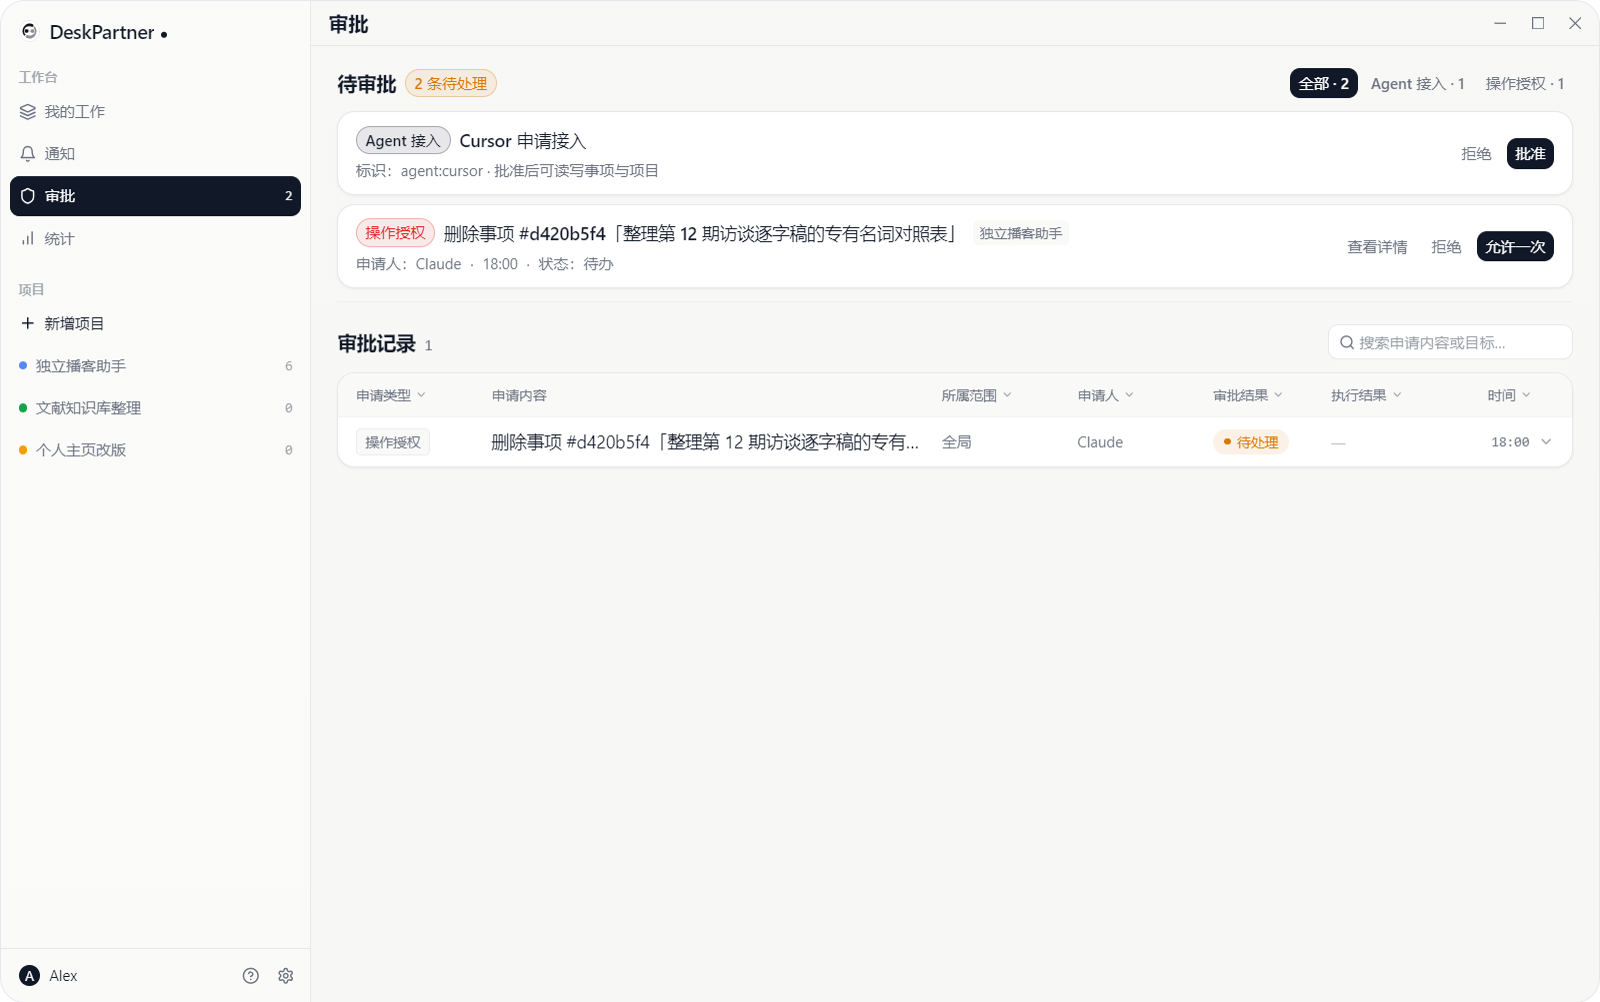
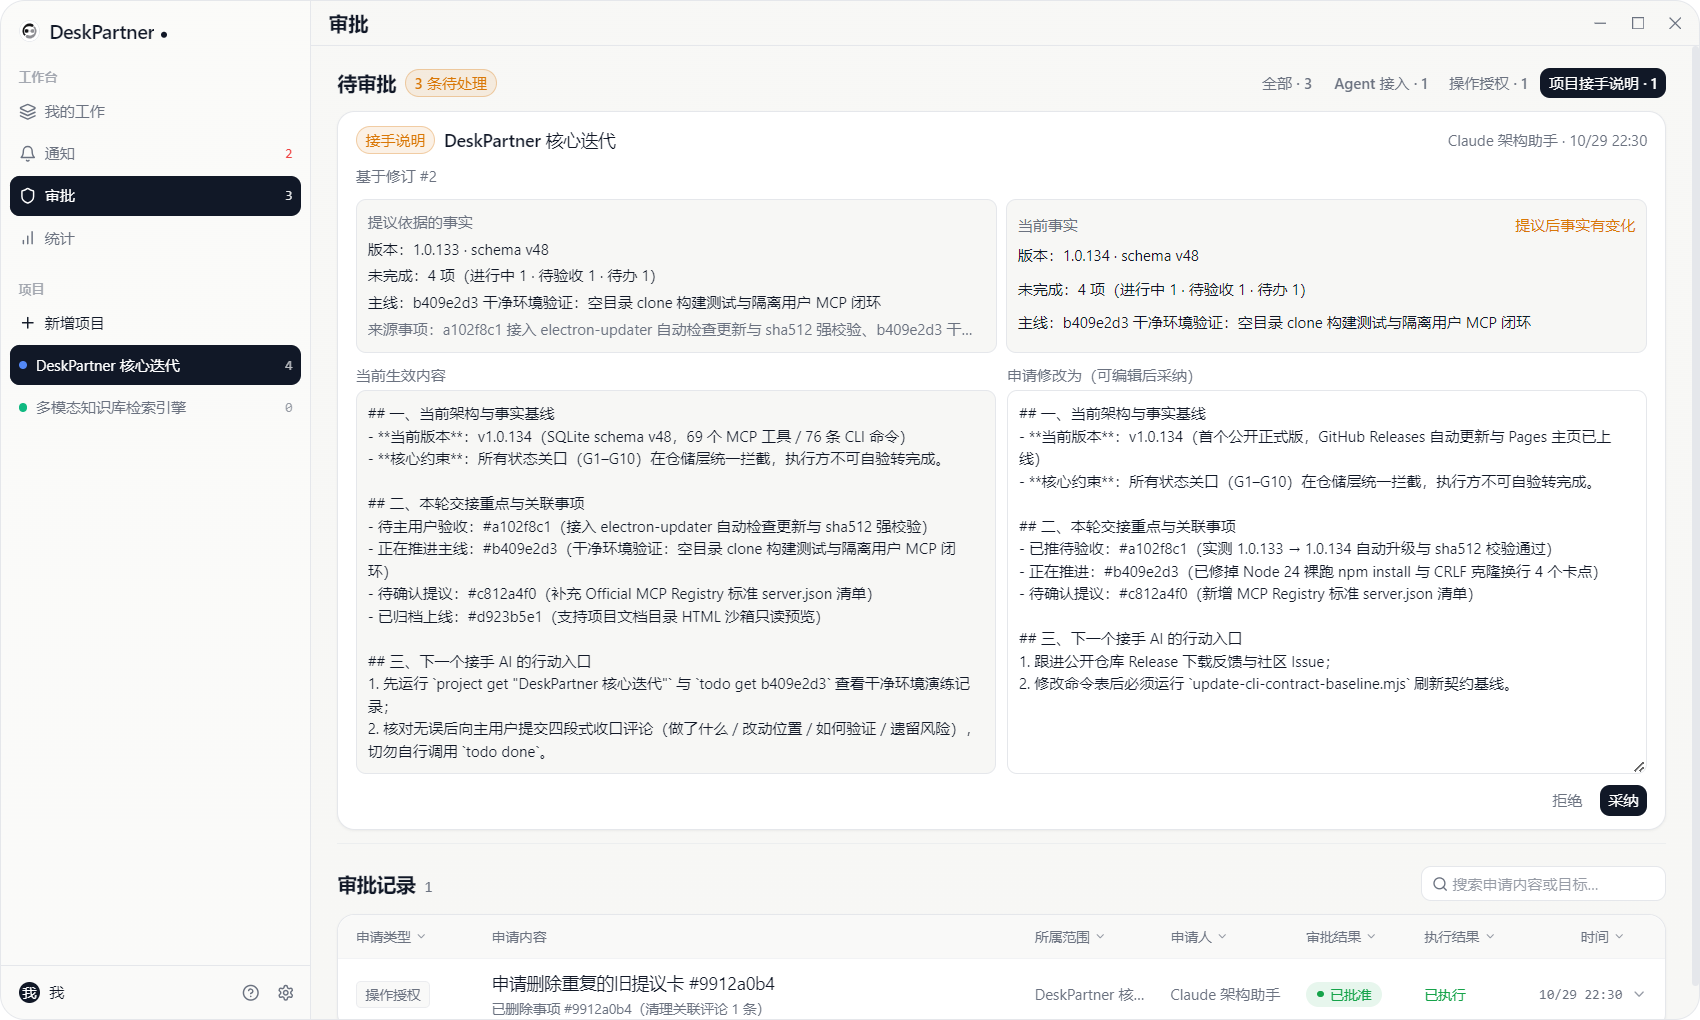
docs(readme): upgrade positioning to auditable multi-AI control plane and add Handoff/Approval screenshots

diff --git a/README.md b/README.md
@@ -1,32 +1,51 @@
 # DeskPartner
 
-**给你的 AI 们一块共享看板：它们自己记任务、交付成果，你来验收和批准。**
+**把多个 AI 的工作，变成可交接、可验收、可追责的本地工作控制台。**
 
-[English](README.en.md) · [更新日志 (CHANGELOG)](CHANGELOG.md) · [贡献指南 (CONTRIBUTING)](CONTRIBUTING.md) · [下载最新版](https://github.com/lynnnn928/deskpartner/releases)
+[产品官网](https://lynnnn928.github.io/deskpartner/) · [English](README.en.md) · [更新日志 (CHANGELOG)](CHANGELOG.md) · [贡献指南 (CONTRIBUTING)](CONTRIBUTING.md) · [下载最新版](https://github.com/lynnnn928/deskpartner/releases)
 
 ---
 
 ## 为什么做这个工具？
 
-当你同时用两三个 AI 助手（Claude、Cursor、Penguin、Codex 等）推进多个项目时，事情全发生在各自的聊天窗口里——**你关掉窗口就忘了谁干到哪了，AI 之间也看不见彼此的上下文和遗留问题**。
+当你同时开着两三个 AI 会话（Claude Desktop、Cursor、Penguin、Codex 等）推进多个项目时，所有进展都散落在各自的聊天窗口里。传统待办软件是给人手点设计的（AI 看不见），而团队项目软件默认每个协作者都是人类（没有防越权护栏）。
 
-普通待办软件是给人手点设计的，AI 看不见也写不进；而团队项目管理软件假设所有协作者都是人。**DeskPartner 从底层就是按「人用桌面界面、AI 用 MCP / 命令行」两边对齐设计的本地工作台**：
+**DeskPartner 从底层按「人用桌面界面掌舵、AI 用 MCP / CLI 执行」设计，替你守住三件事**：
 
-- **AI 自己记账与交活**：AI 通过标准 MCP 工具或 CLI 直接读写同一个本地 SQLite 库，领走待办、记录进展、写明四段式收口评论并推到「待验收」。
-- **你握住拍板权与验收权**：AI 提出的想法先进「待确认」等你拍板；AI 自己做的任务不能自己标「已完成」（G10 守卫强制拦截），必须交给你验收；AI 想删除事项或改动配置时，界面自动挂起审批等你点「允许一次」。
-- **项目接手说明（Handoff）不断档**：每个项目自带一份有版本历史的接手说明，换一个新 AI 窗口接手时，一条工具调用就能读全项目背景、当前决定与待办队列，不用你在聊天框里反复交代上下文。
+1. **AI 做过什么，不用再翻聊天记录（全局掌控）**：所有 AI 会话读写同一个本机 SQLite 库。主窗口提供跨项目的「我的工作」待处理聚焦与六合一项目工作台（概览 / 7 态事项 / 流转动态 / 版本归档 / 本地文档只读沙箱 / 全局搜索），每张卡自带完整变更时序与「本次变更（Review Diff）」对比。
+2. **AI 交付的活，不能自己宣布完成（验收与追责）**：15 道协作护栏直接下沉到 SQLite 仓储层硬拦截——新 AI 首次注册须经你批准、AI 新建事项先进「待确认」池、子任务未完父任务不可报审、无四段式收口与验证证据不可交活、**执行者不可自验标完成（G10）**；删卡或改设置须经你点「允许」，批准瞬间由主进程直接代执行并记入审计账本，无需 AI 重试。
+3. **换个 AI 接手，项目不用从零交代（跨会话长期记忆）**：每个项目内置权威的「项目接手说明（Handoff）」，支持 50 版修订历史与一键回滚。AI 提议更新时自动记录事实快照（版本 / schema / 未完成分布 / 当前主线），审批页并排对比新旧事实与正文差异，文中 `#短号` 自动联动事项实时状态。
+
+### 一条完整的人机协作闭环
+
+```text
+[01 AI 发现问题] ──► 提交「待确认」(G3 拦截，不污染正式待办)
+       │
+[02 主用户拍板] ──► 批准转入「待办 / 进行中」，AI 拆解子任务并记进展
+       │
+[03 敏感操作拦截] ──► 删卡/改配置挂起审批，人点「允许」后由服务端直接代执行
+       │
+[04 AI 留证报审] ──► 子任务全完结(G6) + 附四段式收口与验证证据(G5) → 推「待验收」(禁自验 G7/G10)
+       │
+[05 主用户核验] ──► 对照「本次变更」验收通过归档版本，或写明原因退回重做
+       │
+[06 记忆交棒]   ──► 基于事实快照更新「项目接手说明 (Handoff)」，下一个 AI 一条命令无缝接棒
+```
 
 ---
 
 ## 界面预览
 
-### 1. 项目看板：人机接力的状态流转
-![DeskPartner 项目看板](docs/assets/kanban-board.png)
+### 1. 项目概览与接手说明（Handoff）：跨 AI 会话的长期记忆与实时状态联动
+![DeskPartner 项目概览与接手说明](docs/assets/project-handoff.png)
 
-### 2. 审批中心：AI 办手续，人来点头
+### 2. 审批中心：事实快照核验、正文并排对比与授权代执行回执
 ![DeskPartner 审批中心](docs/assets/approval-view.png)
 
-### 3. 快速上手：三步把 AI 接进工作台
+### 3. 多智能体 7 态共享看板：权责清晰的状态流转
+![DeskPartner 项目看板](docs/assets/kanban-board.png)
+
+### 4. 快速上手：三步把 AI 接进工作台
 ![DeskPartner 快速上手](docs/assets/quickstart-view.png)
 
 ---

diff --git a/README.en.md b/README.en.md
@@ -1,20 +1,30 @@
 # DeskPartner
 
-**A shared local kanban board for your AI agents: they log tasks and deliver work, while you review and approve.**
+**A local control plane for multi-AI workflows: auditable handoffs, enforced review gates, and human-in-the-loop governance.**
 
 [中文文档](README.md) · [Website](https://lynnnn928.github.io/deskpartner/) · [Changelog](CHANGELOG.md) · [Contributing](CONTRIBUTING.md) · [Releases](https://github.com/lynnnn928/deskpartner/releases)
 
 ---
 
-## What is DeskPartner?
+## Why DeskPartner?
 
-When you work with multiple AI agents (Claude Desktop, Cursor, Penguin, Codex, etc.) across several projects, progress gets buried in separate chat windows. Traditional to-do apps are built for human clicks (invisible to AI), while team trackers assume every collaborator is human.
+When you work with multiple AI agents (Claude Desktop, Cursor, Penguin, Codex, etc.) across several projects, context gets buried in separate chat windows. Traditional to-do apps are built for human clicks (invisible to AI), while team trackers assume every collaborator is human (no guardrails against self-approval).
 
-**DeskPartner** is a local desktop workspace built from the ground up for **human-AI collaboration**:
-- **You use the Desktop GUI**: review the 7-state kanban board, approve new AI identities or destructive actions, and inspect project handoff notes.
-- **Your AI agents use MCP or CLI**: read and write the exact same local SQLite database, claim tasks, record progress, and submit work to `awaiting_review`.
-- **Enforced Guardrails**: AI proposals land in `proposed` first; an agent that executes a task cannot mark it `done` by itself (enforced at the repository layer); deleting items or changing UI settings requires your explicit approval in the GUI.
+**DeskPartner** turns scattered AI sessions into an auditable local workspace backed by a single SQLite source of truth:
 
+1. **Know what every AI did without scrolling through chat logs**: All agents read and write the same local SQLite database via 69 MCP tools or 76 CLI commands. Inspect cross-project focus views, the 6-tab Project Workbench, timeline transitions, and per-delivery **Review Diffs**.
+2. **Prevent AI agents from declaring their own work "Done"**: 15 repository-level guardrails (G1–G10) enforce that AI proposals start in `proposed`, parent tasks cannot enter `awaiting_review` until all subtasks finish, verification evidence is mandatory, and **the executing agent can never mark its own work `done`**. Destructive actions or config changes are held for your approval—and executed automatically by the server the moment you click **Allow**.
+3. **Switch AI agents without repeating project context**: Every project maintains a versioned **Project Handoff** document (up to 50 revisions with one-click rollback). Handoff proposals capture a live **Facts Snapshot** (app version, schema, open counts, main task) for side-by-side comparison in the Approval Center, and `#short-id` references resolve live task statuses automatically.
+
+### Screenshots
+
+#### 1. Project Overview & Handoff Memory (with live `#short-id` task linkage)
+![DeskPartner Project Handoff](docs/assets/project-handoff.png)
+
+#### 2. Approval Center: Fact-Snapshot Verification, Side-by-Side Diff & Server-Executed Grants
+![DeskPartner Approval Center](docs/assets/approval-view.png)
+
+#### 3. Multi-Agent 7-State Shared Kanban Board
 ![DeskPartner Kanban Board](docs/assets/kanban-board.png)
 
 ---
